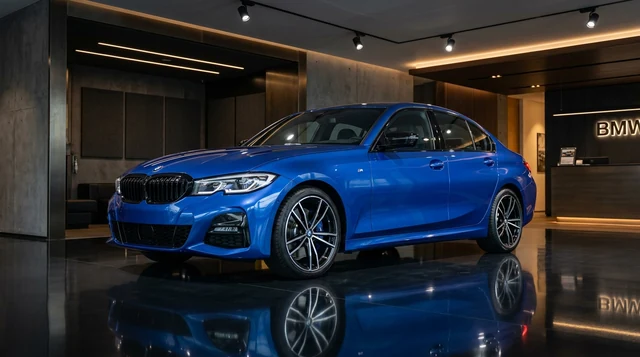
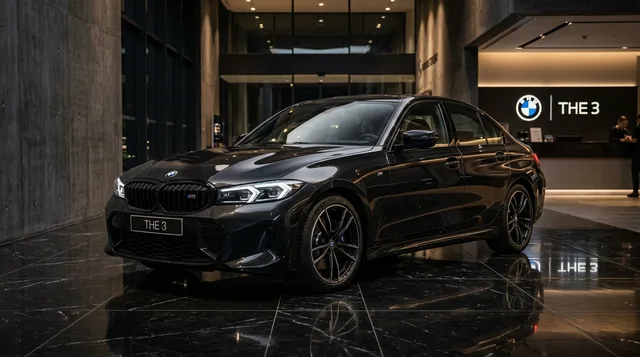
feat: replace last two BMW images with ultra-realistic black showroom photography

diff --git a/scripts/deploy-bmw-black.py b/scripts/deploy-bmw-black.py
@@ -1,0 +1,43 @@
+import os, sqlite3, json
+from PIL import Image
+
+BRAIN = r'C:\Users\LENOVO\.gemini\antigravity\brain\8a218dd6-a490-4fb9-96b2-0ba4caf0b576'
+X5_IMG = os.path.join(BRAIN, 'bmw_x5_black_showroom_1790539633758.jpg')
+B3_IMG = os.path.join(BRAIN, 'bmw_3series_black_showroom_1790539655540.jpg')
+
+targets = [
+    ('bmw-x5-xdrive40i-2024', X5_IMG),
+    ('bmw-3-series-2024', B3_IMG),
+]
+
+for slug, src_path in targets:
+    dest_dir = os.path.join(r'c:\Users\LENOVO\Desktop\threejsproject\public\media\cars', slug)
+    os.makedirs(dest_dir, exist_ok=True)
+    
+    with Image.open(src_path) as im:
+        im = im.convert('RGB')
+        im.save(os.path.join(dest_dir, 'cover.webp'), 'WEBP', quality=88)
+        w, h = im.size
+        ratio = 1200 / float(w)
+        im_1200 = im.resize((1200, int(h * ratio)), Image.Resampling.LANCZOS)
+        im_1200.save(os.path.join(dest_dir, 'cover-1200.webp'), 'WEBP', quality=85)
+        ratio_640 = 640 / float(w)
+        im_640 = im.resize((640, int(h * ratio_640)), Image.Resampling.LANCZOS)
+        im_640.save(os.path.join(dest_dir, 'cover-640.webp'), 'WEBP', quality=82)
+    print(f'Processed WebP covers for {slug}')
+
+conn = sqlite3.connect('showroom.db')
+cur = conn.cursor()
+cur.execute('UPDATE cars SET color = ? WHERE slug = ?', ('Black', 'bmw-3-series-2024'))
+conn.commit()
+conn.close()
+print('Updated BMW 3 Series color to Black in showroom.db')
+
+with open('data/fleet.json', 'r', encoding='utf-8') as f:
+    fleet = json.load(f)
+for c in fleet:
+    if c['slug'] == 'bmw-3-series-2024':
+        c['color'] = 'Black'
+with open('data/fleet.json', 'w', encoding='utf-8') as f:
+    json.dump(fleet, f, indent=2, ensure_ascii=False)
+print('Updated data/fleet.json')
